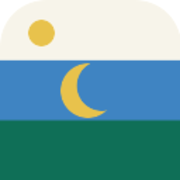
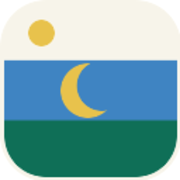
up

Changed region(s): [[0.0, 0.3333, 1.0, 1.0]]

diff --git a/frontend/src/pages/EncontroEuropeuAdminPage.tsx b/frontend/src/pages/EncontroEuropeuAdminPage.tsx
@@ -137,6 +137,18 @@ function formatWorkDays(selectedWorks: string[]) {
     .join(', ');
 }
 
+function formatMembershipSummary(registration: EncontroEuropeuRegistrationRecord) {
+  return [
+    registration.isFardado ? 'Fardado' : 'Não fardado',
+    registration.isIcefluMember ? 'ICEFLU em dia' : 'ICEFLU não informado',
+    registration.isNovice ? 'Primeira vez' : 'Não é primeira vez'
+  ].join(' · ');
+}
+
+function formatExtraItems(registration: EncontroEuropeuRegistrationRecord) {
+  return registration.needsExtraLinen ? 'Lençol extra + toalhas' : 'Sem extras';
+}
+
 export default function EncontroEuropeuAdminPage() {
   const queryClient = useQueryClient();
   const [errorMessage, setErrorMessage] = useState('');
@@ -297,6 +309,8 @@ export default function EncontroEuropeuAdminPage() {
                 <th className="px-4 py-3 font-medium">Data</th>
                 <th className="px-4 py-3 font-medium">Pessoa</th>
                 <th className="px-4 py-3 font-medium">Modalidade</th>
+                <th className="px-4 py-3 font-medium">Vínculo</th>
+                <th className="px-4 py-3 font-medium">Extras</th>
                 <th className="px-4 py-3 font-medium">Permanência</th>
                 <th className="px-4 py-3 font-medium">Trabalhos</th>
                 <th className="px-4 py-3 font-medium">Total</th>
@@ -315,6 +329,8 @@ export default function EncontroEuropeuAdminPage() {
                     <div className="text-slate-500">{registration.church}</div>
                   </td>
                   <td className="px-4 py-3 text-slate-700">{attendanceModeLabels[registration.attendanceMode]}</td>
+                  <td className="px-4 py-3 text-slate-700">{formatMembershipSummary(registration)}</td>
+                  <td className="px-4 py-3 text-slate-700">{formatExtraItems(registration)}</td>
                   <td className="whitespace-nowrap px-4 py-3 text-slate-700">{formatCompactStay(registration.checkIn, registration.checkOut)}</td>
                   <td className="whitespace-nowrap px-4 py-3 text-slate-700">{formatWorkDays(registration.selectedWorks)}</td>
                   <td className="px-4 py-3 text-slate-700">{formatCurrency(registration.contribution.total)}</td>
@@ -419,6 +435,21 @@ function RegistrationCard({
           <div className="font-medium text-slate-900">Contribuição</div>
           <div>{formatCurrency(registration.contribution.total)}</div>
         </div>
+      </div>
+
+      <div className="mt-4 flex flex-wrap gap-2">
+        <span className={`inline-flex rounded-full px-3 py-1 text-xs font-medium ${registration.isFardado ? 'bg-emerald-50 text-emerald-800' : 'bg-slate-100 text-slate-600'}`}>
+          {registration.isFardado ? 'Fardado' : 'Não fardado'}
+        </span>
+        <span className={`inline-flex rounded-full px-3 py-1 text-xs font-medium ${registration.isIcefluMember ? 'bg-sky-50 text-sky-800' : 'bg-slate-100 text-slate-600'}`}>
+          {registration.isIcefluMember ? 'ICEFLU em dia' : 'ICEFLU não informado'}
+        </span>
+        <span className={`inline-flex rounded-full px-3 py-1 text-xs font-medium ${registration.isNovice ? 'bg-amber-50 text-amber-800' : 'bg-slate-100 text-slate-600'}`}>
+          {registration.isNovice ? 'Primeira vez' : 'Não é primeira vez'}
+        </span>
+        <span className={`inline-flex rounded-full px-3 py-1 text-xs font-medium ${registration.needsExtraLinen ? 'bg-violet-50 text-violet-800' : 'bg-slate-100 text-slate-600'}`}>
+          {registration.needsExtraLinen ? 'Lençol extra + toalhas' : 'Sem extras'}
+        </span>
       </div>
 
       <div className="mt-4 grid gap-3 lg:grid-cols-2">

diff --git a/frontend/src/lib/encontroEuropeu.ts b/frontend/src/lib/encontroEuropeu.ts
@@ -144,8 +144,24 @@ function getRoomCapacity(roomName: string) {
   return roomCapacityMap.get(roomName) ?? null;
 }
 
+function hasKnownRoomCapacity(roomName?: string | null) {
+  return typeof roomName === 'string' && getRoomCapacity(roomName) != null;
+}
+
 export function statusBlocksRoomCapacity(status: EncontroEuropeuRegistrationStatus) {
   return roomBlockingStatuses.includes(status);
+}
+
+async function deleteStoredDocumentIfPresent(path: string) {
+  try {
+    await deleteObject(ref(storage, path));
+  } catch (error) {
+    if (error instanceof FirebaseError && error.code === 'storage/object-not-found') {
+      return;
+    }
+
+    throw error;
+  }
 }
 
 export function buildEncontroEuropeuRoomAvailabilitySnapshot(
@@ -215,7 +231,7 @@ export async function uploadEncontroEuropeuDocuments(args: { documents: Encontro
 
     return Object.fromEntries(entries.filter((entry): entry is readonly [string, EncontroEuropeuStoredDocument] => entry !== null));
   } catch (error) {
-    await Promise.all(uploadedFiles.map(file => deleteObject(ref(storage, file.path)).catch(() => undefined)));
+    await Promise.all(uploadedFiles.map(file => deleteStoredDocumentIfPresent(file.path).catch(() => undefined)));
     throw error;
   }
 }
@@ -295,7 +311,7 @@ export async function createEncontroEuropeuRegistration(args: {
     return registrationRef;
   } catch (error) {
     await Promise.all(
-      Object.values(uploadedDocuments).map(document => deleteObject(ref(storage, document.path)).catch(() => undefined))
+      Object.values(uploadedDocuments).map(document => deleteStoredDocumentIfPresent(document.path).catch(() => undefined))
     );
 
     if (error instanceof FirebaseError) {
@@ -325,7 +341,7 @@ export async function rebuildEncontroEuropeuRoomAvailabilityFromRegistrations(
   const reservedByRoom = new Map<string, number>();
 
   registrations.forEach(registration => {
-    if (!registration.roomNumber || !statusBlocksRoomCapacity(registration.status)) {
+    if (!hasKnownRoomCapacity(registration.roomNumber) || !statusBlocksRoomCapacity(registration.status)) {
       return;
     }
 
@@ -361,7 +377,7 @@ export async function updateEncontroEuropeuRegistrationStatus(args: { id: string
 
     const registration = mapRegistration(args.id, registrationSnapshot.data());
 
-    if (registration.roomNumber) {
+    if (hasKnownRoomCapacity(registration.roomNumber)) {
       const currentlyBlocking = statusBlocksRoomCapacity(registration.status);
       const nextBlocking = statusBlocksRoomCapacity(args.status);
 
@@ -386,10 +402,10 @@ export async function deleteEncontroEuropeuRegistration(registration: Pick<
     (value): value is string => typeof value === 'string' && value.length > 0
   );
 
-  await Promise.all(documentPaths.map(path => deleteObject(ref(storage, path)).catch(() => undefined)));
+  await Promise.all(documentPaths.map(path => deleteStoredDocumentIfPresent(path).catch(() => undefined)));
 
   await runTransaction(db, async transaction => {
-    if (registration.roomNumber && statusBlocksRoomCapacity(registration.status)) {
+    if (hasKnownRoomCapacity(registration.roomNumber) && statusBlocksRoomCapacity(registration.status)) {
       await adjustRoomAvailability(registration.roomNumber, -1, transaction);
     }
 

diff --git a/frontend/src/pages/DashboardPage.tsx b/frontend/src/pages/DashboardPage.tsx
@@ -15,6 +15,7 @@ const copyByLocale = {
     stableHint: 'O modo estável mantém visíveis somente perfil, igrejas, inscrição do encontro e páginas administrativas já prontas.',
     enter: 'Entrar →',
     devCards: {
+      profile: { title: 'Perfil', desc: 'Atualize seus dados de acesso e referência pessoal.' },
       people: { title: 'Pessoas', desc: 'Daimistas, papéis e perfis.' },
       churches: { title: 'Igrejas', desc: 'Casas, linhagens e vínculos.' },
       hymns: { title: 'Hinários / Hinos', desc: 'Taxonomia, autores, gravações.' },
@@ -37,6 +38,7 @@ const copyByLocale = {
     stableHint: 'Stable mode keeps only profile, churches, meeting registration, and ready admin pages visible.',
     enter: 'Open →',
     devCards: {
+      profile: { title: 'Profile', desc: 'Update your access and personal reference data.' },
       people: { title: 'People', desc: 'Daimistas, roles, and profiles.' },
       churches: { title: 'Churches', desc: 'Houses, lineages, and links.' },
       hymns: { title: 'Hymns', desc: 'Taxonomy, authors, recordings.' },
@@ -59,6 +61,7 @@ const copyByLocale = {
     stableHint: 'El modo estable mantiene visibles solo perfil, iglesias, inscripción al encuentro y páginas administrativas ya listas.',
     enter: 'Entrar →',
     devCards: {
+      profile: { title: 'Perfil', desc: 'Actualice sus datos de acceso y referencia personal.' },
       people: { title: 'Personas', desc: 'Daimistas, papeles y perfiles.' },
       churches: { title: 'Iglesias', desc: 'Casas, linajes y vínculos.' },
       hymns: { title: 'Himnarios / Himnos', desc: 'Taxonomía, autores y grabaciones.' },
@@ -81,6 +84,7 @@ const copyByLocale = {
     stableHint: 'La modalità stabile mantiene visibili solo profilo, chiese, iscrizione all\'incontro e pagine amministrative già pronte.',
     enter: 'Apri →',
     devCards: {
+      profile: { title: 'Profilo', desc: 'Aggiorna i tuoi dati di accesso e di riferimento personale.' },
       people: { title: 'Persone', desc: 'Daimisti, ruoli e profili.' },
       churches: { title: 'Chiese', desc: 'Case, linee e collegamenti.' },
       hymns: { title: 'Inni', desc: 'Tassonomia, autori e registrazioni.' },
@@ -110,6 +114,7 @@ export function DashboardPage() {
   ];
 
   const devCards = [
+    { to: '/perfil', ...copy.devCards.profile },
     { to: '/pessoas', ...copy.devCards.people },
     { to: '/igrejas', ...copy.devCards.churches },
     { to: '/hinarios', ...copy.devCards.hymns },

diff --git a/frontend/src/components/BrandMark.tsx b/frontend/src/components/BrandMark.tsx
@@ -1,9 +1,13 @@
+import { useId } from 'react';
+
 type BrandMarkProps = {
   className?: string;
   decorative?: boolean;
 };
 
 export function BrandMark({ className, decorative = false }: BrandMarkProps) {
+  const clipPathId = useId();
+
   return (
     <svg
       viewBox="0 0 64 64"
@@ -13,14 +17,23 @@ export function BrandMark({ className, decorative = false }: BrandMarkProps) {
       aria-label={decorative ? undefined : 'São Irineu'}
       focusable="false"
     >
+      <defs>
+        <clipPath id={clipPathId}>
+          <rect x="1.5" y="1.5" width="61" height="61" rx="16.5" />
+        </clipPath>
+      </defs>
       <rect width="64" height="64" rx="18" fill="#f7f4ea" />
-      <path d="M0 21.33h64v21.34H0z" fill="#3f84c2" />
-      <path d="M0 42.67h64v21.33H0z" fill="#0f6f57" />
+      <g clipPath={`url(#${clipPathId})`}>
+        <path d="M0 21.33h64v21.34H0z" fill="#3f84c2" />
+        <path d="M0 42.67h64v21.33H0z" fill="#0f6f57" />
+        <circle cx="14.5" cy="11.5" r="4.5" fill="#e8c24c" />
+        <path d="M32 7v14M24.5 10.5h15M26.5 15h11" fill="none" stroke="#2a628f" strokeLinecap="round" strokeWidth="2.6" />
+        <circle cx="31" cy="32" r="9.5" fill="#e8c24c" />
+        <circle cx="35.8" cy="30.5" r="8.8" fill="#3f84c2" />
+        <path d="M47.5 46.8 51.2 53H43.8Z" fill="none" stroke="#e8c24c" strokeLinecap="round" strokeLinejoin="round" strokeWidth="2.2" />
+        <path d="M47.5 54.2 43.8 48H51.2Z" fill="none" stroke="#e8c24c" strokeLinecap="round" strokeLinejoin="round" strokeWidth="2.2" />
+      </g>
       <rect x="0.75" y="0.75" width="62.5" height="62.5" rx="17.25" fill="none" stroke="#d7ceb8" strokeWidth="1.5" />
-      <circle cx="31" cy="32" r="9.5" fill="#e8c24c" />
-      <circle cx="35.8" cy="30.5" r="8.8" fill="#3f84c2" />
-      <path d="M47.5 46.8 51.2 53H43.8Z" fill="none" stroke="#e8c24c" strokeLinecap="round" strokeLinejoin="round" strokeWidth="2.2" />
-      <path d="M47.5 54.2 43.8 48H51.2Z" fill="none" stroke="#e8c24c" strokeLinecap="round" strokeLinejoin="round" strokeWidth="2.2" />
     </svg>
   );
 }

diff --git a/frontend/src/providers/SiteLocaleProvider.tsx b/frontend/src/providers/SiteLocaleProvider.tsx
@@ -1,4 +1,4 @@
-import { useMemo, useState, type ReactNode } from 'react';
+import { useCallback, useMemo, useState, type ReactNode } from 'react';
 
 import {
   resolveInitialSiteLocale,
@@ -12,17 +12,19 @@ export function SiteLocaleProvider({ children }: { children: ReactNode }) {
     resolveInitialSiteLocale(typeof window === 'undefined' ? undefined : window.localStorage.getItem(siteLocaleStorageKey) ?? navigator.language)
   );
 
+  const setLocale = useCallback((nextLocale: SiteLocale) => {
+    setLocaleState(nextLocale);
+    if (typeof window !== 'undefined') {
+      window.localStorage.setItem(siteLocaleStorageKey, nextLocale);
+    }
+  }, []);
+
   const value = useMemo<SiteLocaleContextValue>(
     () => ({
       locale: localeState,
-      setLocale: nextLocale => {
-        setLocaleState(nextLocale);
-        if (typeof window !== 'undefined') {
-          window.localStorage.setItem(siteLocaleStorageKey, nextLocale);
-        }
-      }
+      setLocale
     }),
-    [localeState]
+    [localeState, setLocale]
   );
 
   return <SiteLocaleContext.Provider value={value}>{children}</SiteLocaleContext.Provider>;

diff --git a/frontend/src/App.tsx b/frontend/src/App.tsx
@@ -69,7 +69,7 @@ function DevOnlyRoute() {
   const { devModeEnabled } = useDevMode();
 
   if (!devModeEnabled) {
-    return <Navigate to="/perfil" replace />;
+    return <Navigate to="/" replace />;
   }
 
   return <Outlet />;
@@ -84,9 +84,9 @@ function App() {
         <Route element={<AuthGate />}>
           <Route element={<Shell />}>
             <Route index element={<DashboardPage />} />
-            <Route path="/igrejas" element={<ChurchesPage />} />
-            <Route path="/perfil" element={<PerfilPage />} />
             <Route element={<DevOnlyRoute />}>
+              <Route path="/igrejas" element={<ChurchesPage />} />
+              <Route path="/perfil" element={<PerfilPage />} />
               <Route path="/pessoas" element={<PeoplePage />} />
               <Route path="/hinarios" element={<HymnsPage />} />
               <Route path="/bebida" element={<BeveragePage />} />

diff --git a/frontend/src/lib/encontroEuropeu.test.ts b/frontend/src/lib/encontroEuropeu.test.ts
@@ -29,4 +29,18 @@ describe('encontroEuropeu room availability helpers', () => {
       ])
     );
   });
+
+  it('ignores invalid legacy room ids in aggregate snapshots', () => {
+    expect(
+      buildEncontroEuropeuRoomAvailabilitySnapshot([
+        { id: 'Au', reserved: 1, available: 0 },
+        { id: 'Cedro', reserved: 1, available: 5 }
+      ])
+    ).toEqual(
+      expect.arrayContaining([
+        { name: 'Cedro', capacity: 6, reserved: 1, available: 5 },
+        { name: 'Aurora', capacity: 10, reserved: 0, available: 10 }
+      ])
+    );
+  });
 });

diff --git a/frontend/src/components/NavBar.tsx b/frontend/src/components/NavBar.tsx
@@ -12,12 +12,12 @@ type NavCopy = typeof copyByLocale.pt;
 type NavCopyKey = keyof NavCopy;
 
 const stableLinks: Array<{ to: string; key: NavCopyKey }> = [
-  { to: '/', key: 'home' },
-  { to: '/perfil', key: 'profile' },
-  { to: '/igrejas', key: 'churches' }
+  { to: '/', key: 'home' }
 ];
 
 const devLinks: Array<{ to: string; key: NavCopyKey }> = [
+  { to: '/perfil', key: 'profile' },
+  { to: '/igrejas', key: 'churches' },
   { to: '/pessoas', key: 'people' },
   { to: '/hinarios', key: 'hymns' },
   { to: '/bebida', key: 'beverage' },

diff --git a/frontend/src/pages/LoginPage.tsx b/frontend/src/pages/LoginPage.tsx
@@ -143,7 +143,6 @@ export function LoginPage() {
             </label>
           </div>
           <h1 className="text-2xl font-bold tracking-tight text-[color:var(--brand-ink)]">{copy.title}</h1>
-          <p className="mt-2 text-sm text-[color:rgba(36,54,77,0.72)]">Branco, azul, verde e dourado como base visual do site.</p>
         </div>
 
         <form className="space-y-4" onSubmit={handleEmail}>

diff --git a/README.md b/README.md
@@ -3,12 +3,10 @@
 hi
 
 ## todo
-
-modulo de inscrição:
-melhorar o botão de enviar inscrição para quando for mobile
-Checkin e checkout sem data selecionada. Quando o usuário clica para escolher a data, as data são aquelas 10/Set, 16/Set.
+we should feed the database with the churches. Before that, we need to derive a better way to describe the churches and addresses. Most delicate: A Church is linked to people (e.g. leaders), at the same time people are linked to churches (fardado here, participates there, etc). Which comes first? How to deal with such ambiguity?
 
 ### priority medium
+paleta de cores do site
 make site mobile friendly
 
 ### priority low
